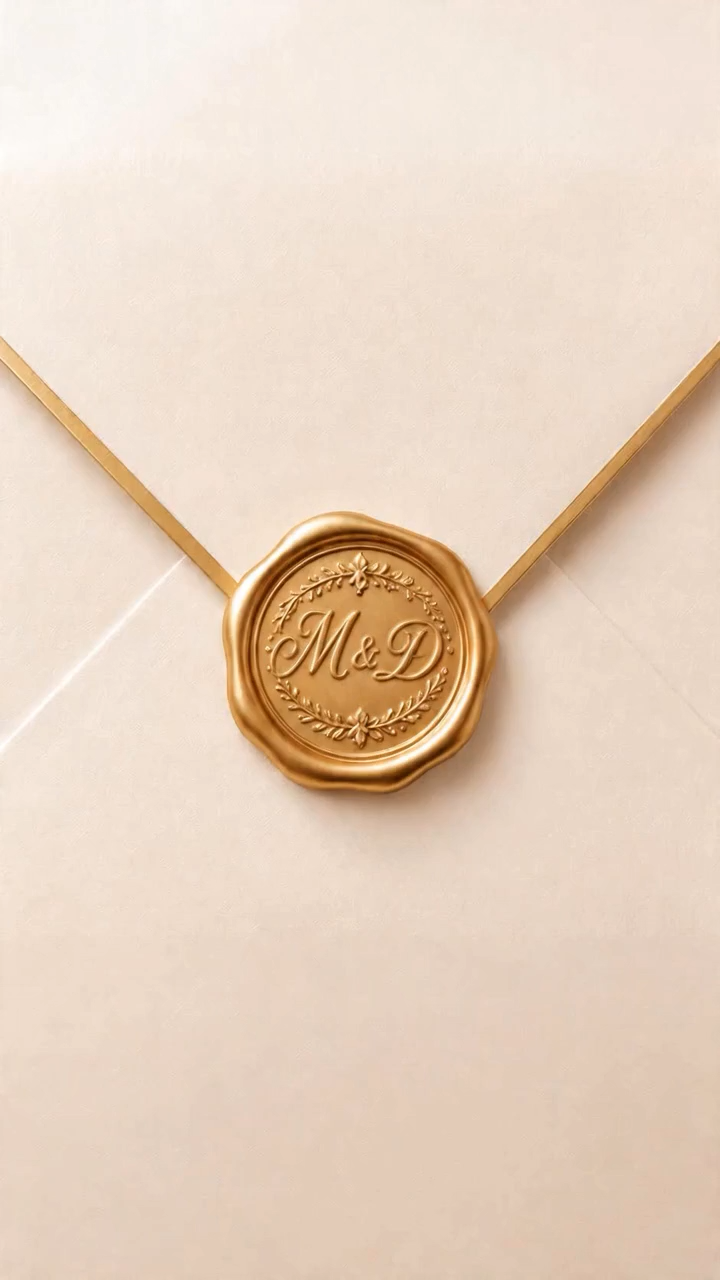
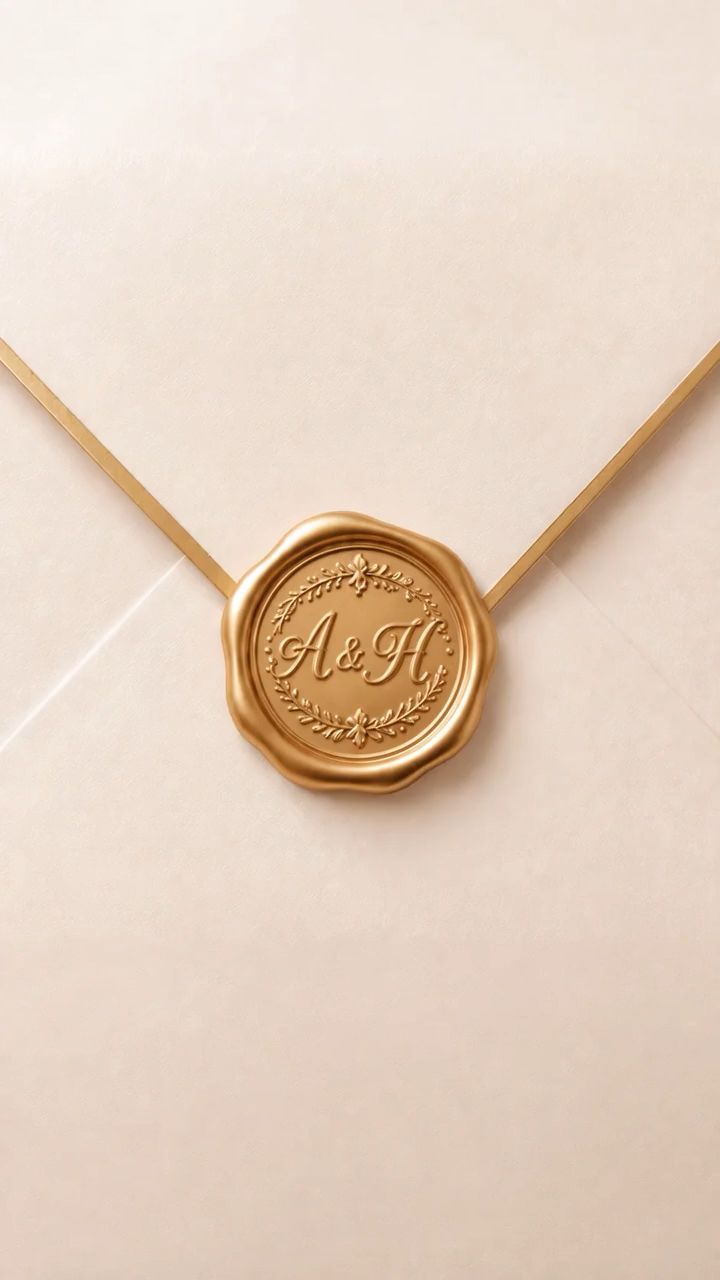
Initial commit

diff --git a/src/app/page.tsx b/src/app/page.tsx
@@ -4,7 +4,7 @@ import { useRef, useState, useEffect } from "react";
 
 type Stage = "poster" | "envelopeVideo" | "content";
 
-const WEDDING_DATE = new Date("2026-07-31T20:00:00");
+const WEDDING_DATE = new Date("2026-07-17T15:00:00");
 
 function useCountdown() {
   const [timeLeft, setTimeLeft] = useState({
@@ -106,7 +106,7 @@ function CountdownSection() {
           marginBottom: 32,
         }}
       >
-        31 July 2026
+        17 July 2026
       </h2>
 
       <div
@@ -199,9 +199,9 @@ function EventDetails() {
 
       <div style={{ display: "flex", flexDirection: "column", gap: 20 }}>
         {[
-          { label: "Date", value: "Friday, 31 July 2026" },
-          { label: "Time", value: "8:00 PM" },
-          { label: "Venue", value: "Semiramis Intercontinental Cairo" },
+          { label: "Date", value: "Friday, 17 July 2026" },
+          { label: "Time", value: "3 PM" },
+          { label: "Venue", value: "El Maghfira Mosque" },
         ].map(({ label, value }) => (
           <div key={label}>
             <p
@@ -270,7 +270,7 @@ function LocationSection() {
       }}
     >
       <iframe
-        src="https://www.google.com/maps?q=InterContinental%20Cairo%20Semiramis%20by%20IHG&z=16&output=embed"
+        src="https://www.google.com/maps?q=30.0612855,31.2121431&z=16&output=embed"
         style={{
           position: "absolute",
           inset: 0,
@@ -326,7 +326,7 @@ function LocationSection() {
             marginBottom: 8,
           }}
         >
-          Semiramis Intercontinental Cairo
+          El Maghfira Mosque
         </h2>
 
         <p
@@ -337,11 +337,11 @@ function LocationSection() {
             marginBottom: 32,
           }}
         >
-          InterContinental Cairo Semiramis
+          El Maghfira Mosque
         </p>
 
         <a
-          href="https://www.google.com/maps/search/?api=1&query=InterContinental+Cairo+Semiramis+by+IHG"
+          href="https://maps.app.goo.gl/chGutF1mEF5yJ1vX7"
           target="_blank"
           rel="noopener noreferrer"
           style={{
@@ -430,7 +430,7 @@ function ClosingSection() {
             color: "#b47a28",
           }}
         >
-          M & D
+          A & H
         </span>
       </div>
 
@@ -455,7 +455,7 @@ function ClosingSection() {
           marginBottom: 24,
         }}
       >
-        We can't wait to celebrate with you
+        We can&apos;t wait to celebrate with you
       </p>
 
       <div
@@ -729,7 +729,6 @@ export default function WeddingInvitation() {
             <CountdownSection />
             <EventDetails />
             <LocationSection />
-            <GallerySection />
             <ClosingSection />
           </div>
         )}

diff --git a/next.config.ts b/next.config.ts
@@ -2,7 +2,7 @@ import type { NextConfig } from "next";
 
 const nextConfig: NextConfig = {
   turbopack: {
-    root: "C:\\Users\\viganium\\Documents\\Open Code\\wedding",
+    root: ".",
   },
 };
 